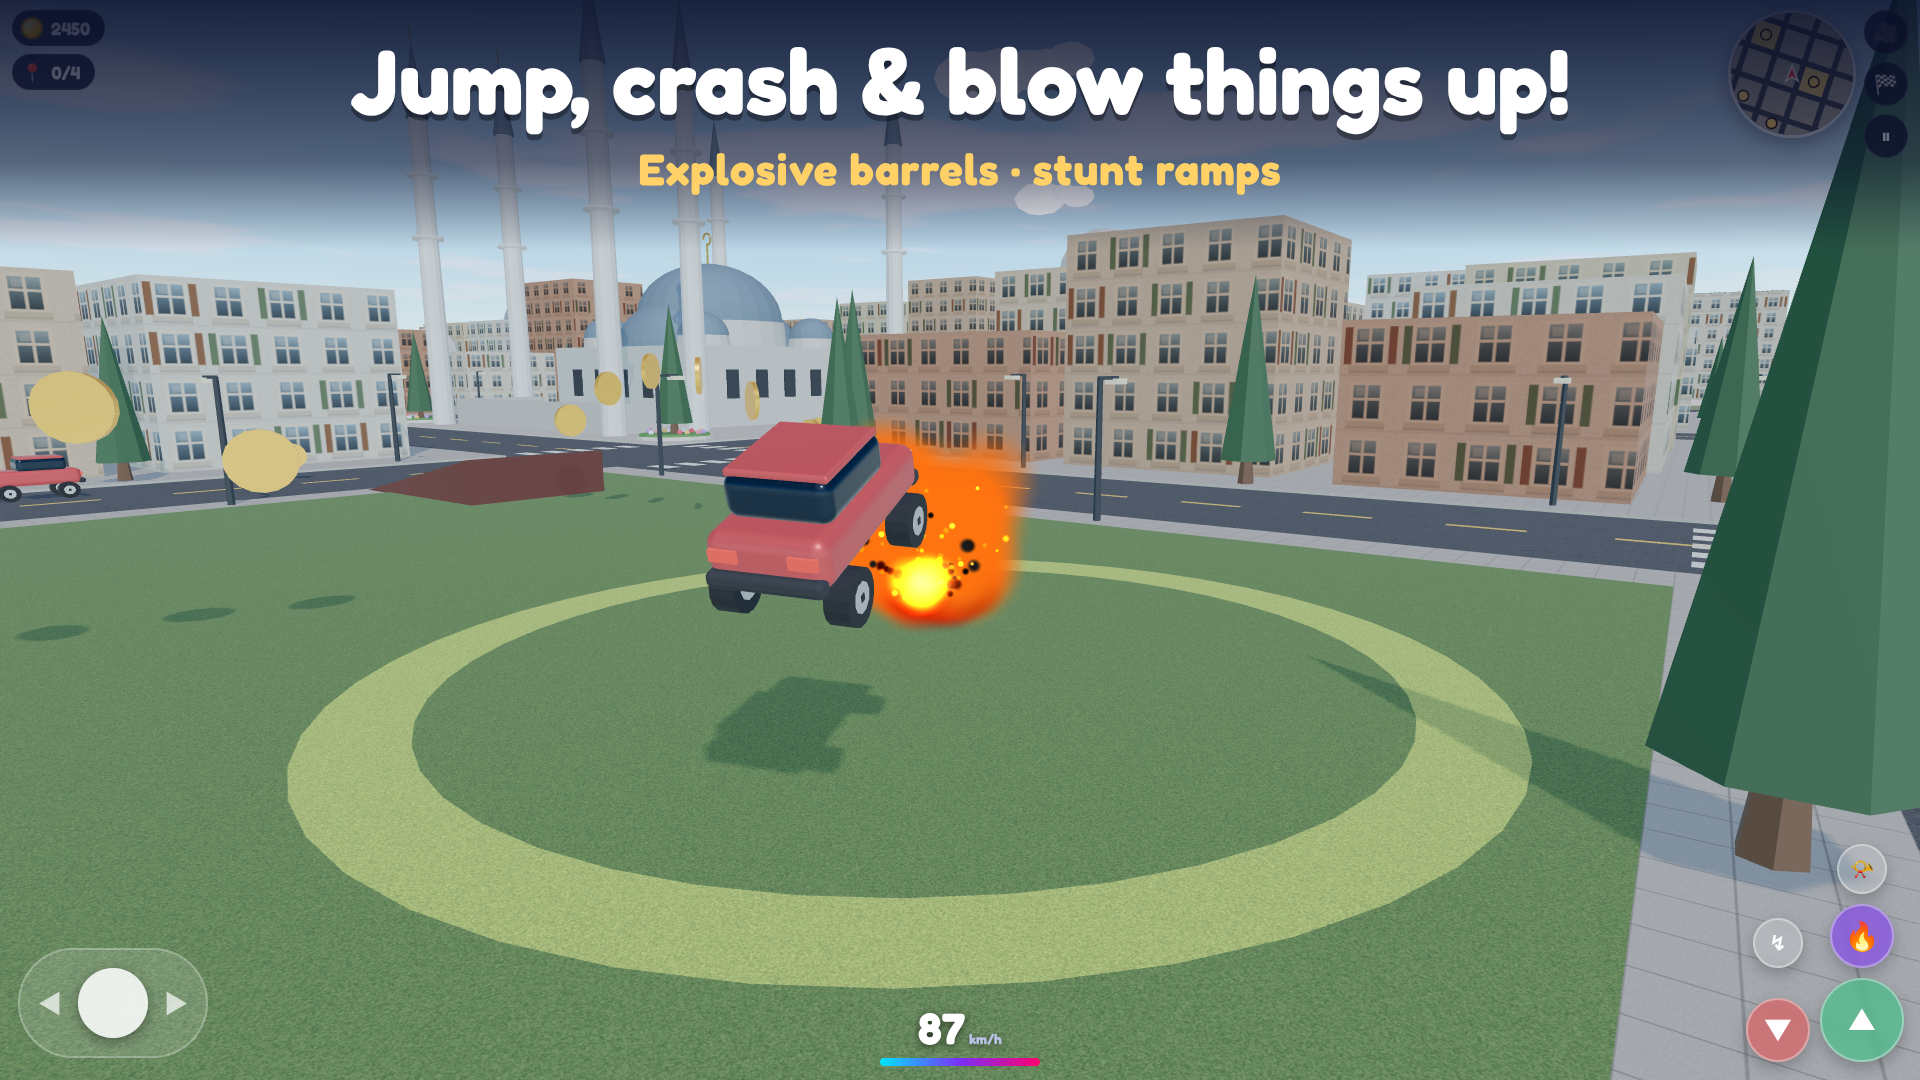
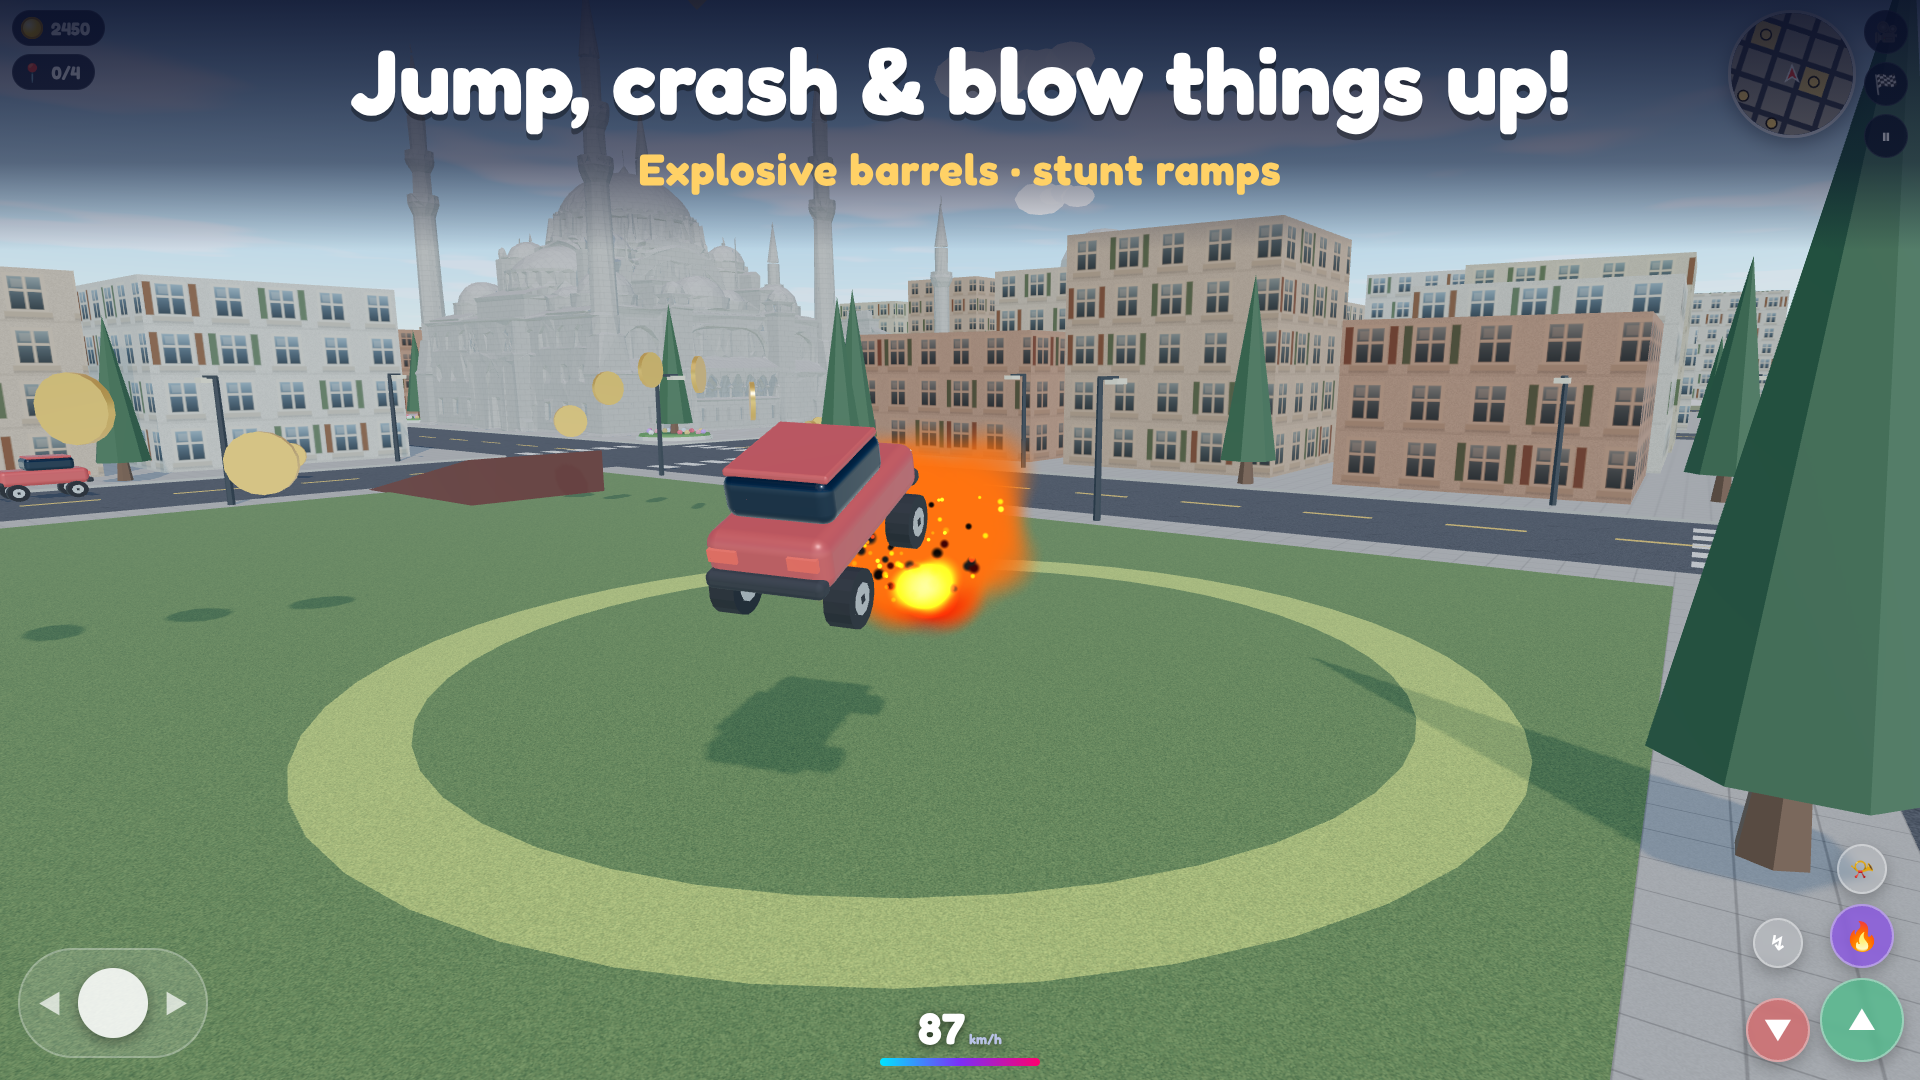
Store screenshots and feature graphic with the new landmark models
Claude-Session: https://claude.ai/code/session_01E9xTBfUxmeN1xE6MoCwF5C

diff --git a/store/listing-en.md b/store/listing-en.md
@@ -79,13 +79,13 @@ First release of CityCars: World Tour!
 
 ## Screenshot captions (used on the store screenshots)
 
-1. Drive the world's most famous cities (Paris, Eiffel Tower)
-2. Discover real landmarks (Istanbul, Galata Tower)
-3. From Big Ben… (London)
-4. …to the Statue of Liberty (New York)
-5. Explore ancient wonders (Rome, Colosseum)
-6. Reach for the sky (Dubai, Burj Khalifa)
-7. 17 cities to unlock (Rio, Christ the Redeemer)
+1. Drive the world's most famous cities (Istanbul, Hagia Sophia)
+2. Discover real landmarks (Cairo, Great Pyramid of Giza)
+3. Cruise past the fairy chimneys (Cappadocia)
+4. From the Eiffel Tower… (Paris)
+5. …to the Taj Mahal (Agra)
+6. Cross Tower Bridge (London)
+7. 17 cities to unlock (Tokyo, Tokyo Tower)
 8. Jump, crash & blow things up! (explosion)
 9. Your world tour awaits (city map)
 
